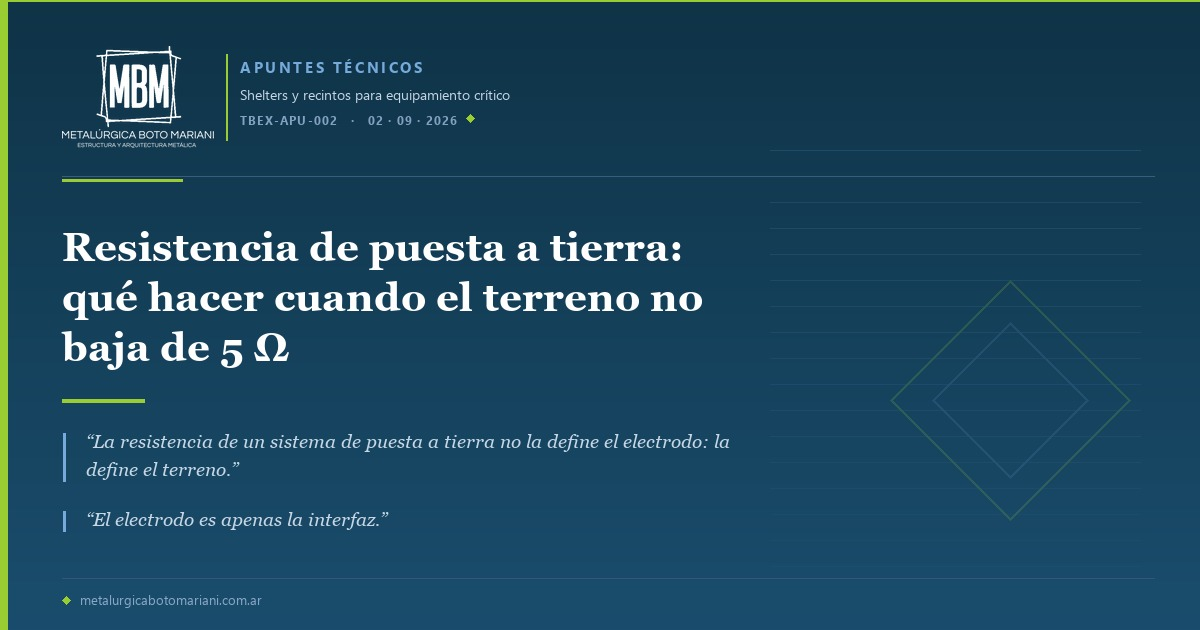
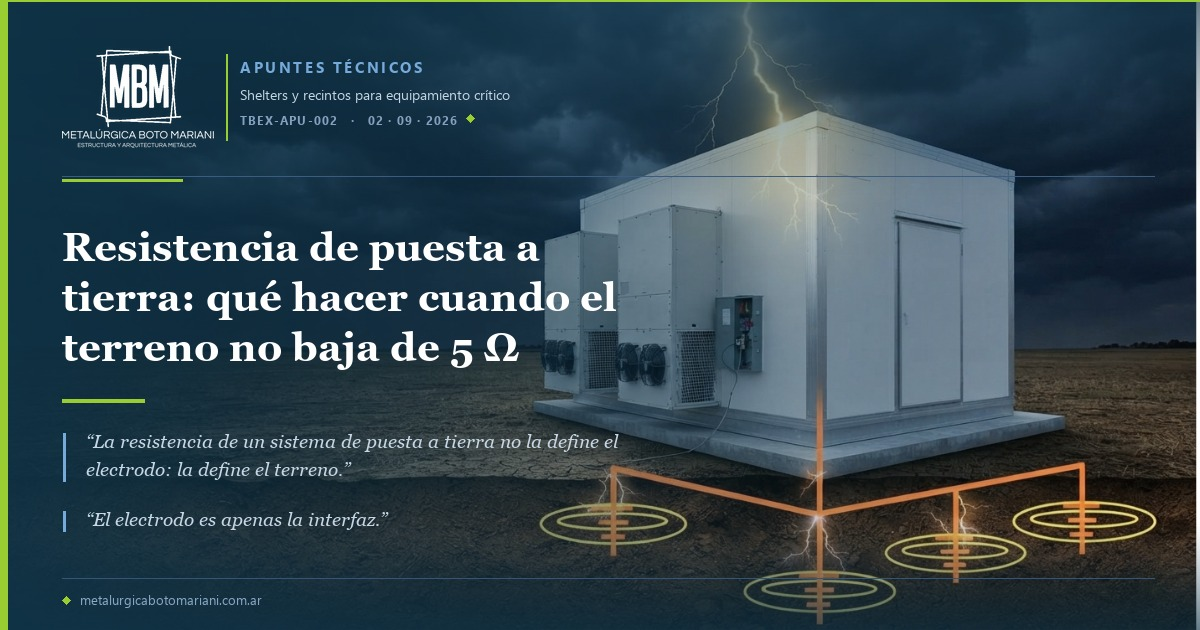
Portada a sangre completa + imagenes en el cuerpo del apunte de puesta a tierra
- generar.py: la foto pasa a ocupar la portada entera en vez de ir a la
  derecha con fundido. Sobre ella van tres velos encadenados (lateral desde la
  izquierda, banda de cabecera y banda de pie) para que el texto siga siendo
  legible. El fondo se busca en <carpeta>/_fuentes/fondo.*: el publicador no
  mira subcarpetas, asi que el original de alta resolucion queda disponible
  para regenerar la portada sin publicarse como imagen suelta del articulo.
- El apunte suma dos fotos en el cuerpo, con epigrafe: la medicion en campo en
  la seccion del ensayo de Wenner, y la union conductor-jabalina en la seccion
  de que hacer cuando el terreno no colabora.
- El material de origen queda archivado en _fuentes/. Se descarto un diagrama
  de red mallada por ser de un tercero (Panduit) y traer su marca de agua.

diff --git a/scripts/portada/generar.py b/scripts/portada/generar.py
@@ -16,7 +16,7 @@ import io
 import os
 import re
 import sys
-from PIL import Image, ImageDraw, ImageFont, ImageEnhance
+from PIL import Image, ImageDraw, ImageFont
 
 RAIZ = os.path.dirname(os.path.dirname(os.path.dirname(os.path.abspath(__file__))))
 LOGO = os.path.join(RAIZ, "public", "logos", "logo-blanco.png")
@@ -89,6 +89,22 @@ APUNTES = {
 }
 
 
+def buscar_fondo(carpeta):
+    """Imagen de fondo de la portada.
+
+    Se busca primero en <carpeta>/_fuentes/fondo.*  El publicador no mira
+    subcarpetas, asi que el original de alta resolucion queda disponible para
+    regenerar la portada sin terminar publicado como imagen suelta del articulo.
+    """
+    for base in (os.path.join(carpeta, "_fuentes"), carpeta):
+        if not os.path.isdir(base):
+            continue
+        for f in sorted(os.listdir(base)):
+            if f.lower().startswith("fondo") and f.lower().endswith(IMG_EXT):
+                return os.path.join(base, f)
+    return None
+
+
 def frontmatter(ruta):
     texto = io.open(ruta, encoding="utf-8").read()
     bloque = re.match(r"^---\r?\n(.*?)\r?\n---", texto, re.S)
@@ -153,8 +169,7 @@ def generar(carpeta):
     anio, mes, dia = fm["date"].split("-")
     cabecera_fecha = u"%s   ·   %s · %s · %s" % (codigo, dia, mes, anio)
 
-    fotos = [f for f in archivos
-             if f.lower().endswith(IMG_EXT) and not f.lower().startswith("portada")]
+    fondo = buscar_fondo(carpeta)
 
     # ------------------------------------------------------------ fondo
     lienzo = Image.new("RGB", (W, H), AZUL_TOP)
@@ -164,32 +179,43 @@ def generar(carpeta):
         d.line([(0, y), (W, y)],
                fill=tuple(int(AZUL_TOP[i] + (AZUL_BOT[i] - AZUL_TOP[i]) * t) for i in range(3)))
 
-    if fotos:
-        X_FIG = 660
-        ancho_fig, alto_fig = W - X_FIG, H
-        foto = Image.open(os.path.join(carpeta, sorted(fotos)[0])).convert("RGB")
-        r_panel, r_foto = ancho_fig / float(alto_fig), foto.width / float(foto.height)
-        if r_foto > r_panel:
-            nw = int(foto.height * r_panel)
+    if fondo:
+        # Imagen a sangre: ocupa la portada entera, recortada al centro.
+        foto = Image.open(fondo).convert("RGB")
+        r_dest, r_foto = W / float(H), foto.width / float(foto.height)
+        if r_foto > r_dest:
+            nw = int(foto.height * r_dest)
             foto = foto.crop(((foto.width - nw) // 2, 0, (foto.width + nw) // 2, foto.height))
         else:
-            nh = int(foto.width / r_panel)
+            nh = int(foto.width / r_dest)
             foto = foto.crop((0, (foto.height - nh) // 2, foto.width, (foto.height + nh) // 2))
-        foto = foto.resize((ancho_fig, alto_fig), Image.LANCZOS)
-        foto = ImageEnhance.Color(foto).enhance(0.72)
-        foto = ImageEnhance.Brightness(foto).enhance(0.80)
+        lienzo = foto.resize((W, H), Image.LANCZOS)
 
-        mascara = Image.new("L", (ancho_fig, alto_fig), 255)
-        md = ImageDraw.Draw(mascara)
-        FUNDIDO = 260
-        for x in range(FUNDIDO):
-            md.line([(x, 0), (x, alto_fig)], fill=int(255 * (x / float(FUNDIDO)) ** 1.5))
-        lienzo.paste(foto, (X_FIG, 0), mascara)
-        velo = Image.new("RGBA", (ancho_fig, alto_fig), (26, 77, 109, 78))
-        lienzo.paste(Image.alpha_composite(
-            lienzo.crop((X_FIG, 0, W, H)).convert("RGBA"), velo).convert("RGB"), (X_FIG, 0), mascara)
+        # Tres velos encadenados para que el texto sea legible sobre la foto:
+        # lateral desde la izquierda, banda de cabecera y banda de pie.
+        def velar(base, pintar):
+            capa = Image.new("RGBA", (W, H), (0, 0, 0, 0))
+            pintar(ImageDraw.Draw(capa))
+            return Image.alpha_composite(base.convert("RGBA"), capa).convert("RGB")
+
+        def lateral(cd):
+            for x in range(W):
+                a = int(236 * (1 - x / float(W - 1)) ** 1.25)
+                cd.line([(x, 0), (x, H)], fill=AZUL_TOP + (a,))
+
+        def cabecera(cd):
+            for y in range(0, 200):
+                cd.line([(0, y), (W, y)], fill=AZUL_TOP + (int(165 * (1 - y / 200.0) ** 1.2),))
+
+        def pie(cd):
+            for y in range(H - 110, H):
+                t = (y - (H - 110)) / 110.0
+                cd.line([(0, y), (W, y)], fill=AZUL_TOP + (int(165 * t ** 1.2),))
+
+        for capa in (lateral, cabecera, pie):
+            lienzo = velar(lienzo, capa)
         d = ImageDraw.Draw(lienzo)
-        ANCHO = 660
+        ANCHO = 620
     else:
         # Sin foto: motivo tipografico. Pauta de filetes finos que se desvanece,
         # como la trama de una lamina tecnica.
@@ -270,7 +296,7 @@ def generar(carpeta):
     lienzo.save(salida, "JPEG", quality=92, optimize=True)
     print("Portada: %s" % salida)
     print("  %s  |  titulo en %d lineas a %dpx  |  figura: %s"
-          % (codigo, len(lineas_t), tam, sorted(fotos)[0] if fotos else "sin foto (tipografica)"))
+          % (codigo, len(lineas_t), tam, os.path.basename(fondo) if fondo else "sin foto (tipografica)"))
 
 
 if __name__ == "__main__":

diff --git a/_programadas/2026-09-02_1100/resistencia-puesta-a-tierra-shelter-terreno-5-ohm.md b/_programadas/2026-09-02_1100/resistencia-puesta-a-tierra-shelter-terreno-5-ohm.md
@@ -43,11 +43,19 @@ El método de referencia es el **ensayo de Wenner de cuatro picas**. Cuatro elec
 
 Lo importante del método es que la separación entre picas determina la profundidad que se está explorando: separaciones chicas leen las capas superficiales, separaciones grandes leen el terreno profundo. Un solo ensayo con una única separación no describe el sitio; describe una capa. Y como la humedad superficial varía con la estación, la medición hecha en la época húmeda del año puede mostrar un terreno que en verano no existe.
 
+![Operario midiendo la resistencia de puesta a tierra con instrumento de campo](/blog/resistencia-puesta-a-tierra-shelter-terreno-5-ohm/medicion-resistencia-en-campo.webp)
+
+*La resistividad se mide en el sitio y con el terreno delante. No hay forma de deducirla desde el escritorio.*
+
 ## Cuando el terreno no colabora
 
 Por encima del orden de los **500 Ω·m** el valor objetivo deja de ser alcanzable con una configuración convencional de jabalinas, y hay que decidir por dónde se va a resolver. Las salidas son conocidas y cada una tiene su costo:
 
 **Más electrodo.** Aumentar la cantidad de jabalinas, separarlas al menos su propia longitud para que no se apantallen entre sí, o pasar a electrodos más profundos que alcancen capas de menor resistividad. Es la salida más directa y la que más superficie de terreno consume.
+
+![Conexión del conductor de puesta a tierra a una jabalina de cobre en terreno excavado](/blog/resistencia-puesta-a-tierra-shelter-terreno-5-ohm/electrodo-conexion-en-terreno.webp)
+
+*La unión entre el conductor y el electrodo queda enterrada durante toda la vida de la instalación: es el punto que no se puede revisar después.*
 
 **Contrapesos y radiales.** Conductores enterrados horizontalmente, que en terrenos de alta resistividad suelen rendir mejor que las jabalinas verticales porque desarrollan mucha más superficie de contacto en las capas superficiales.
 
